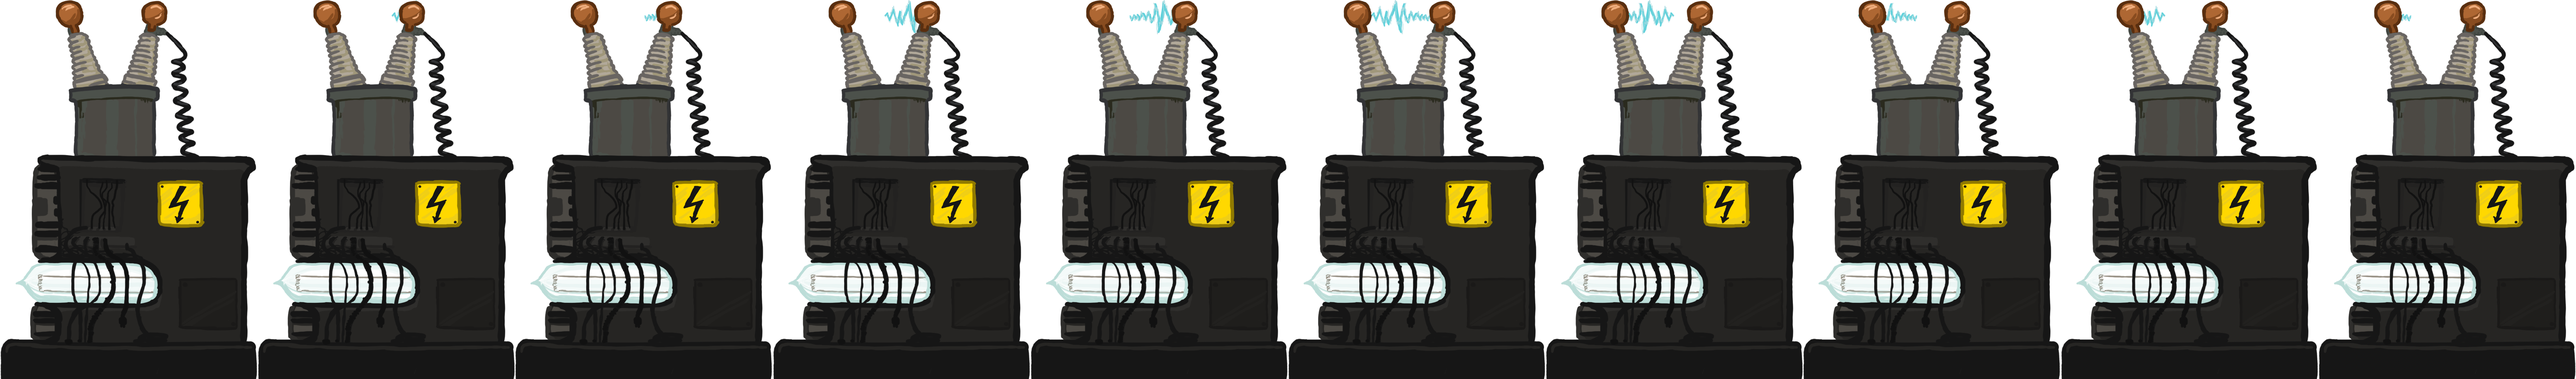
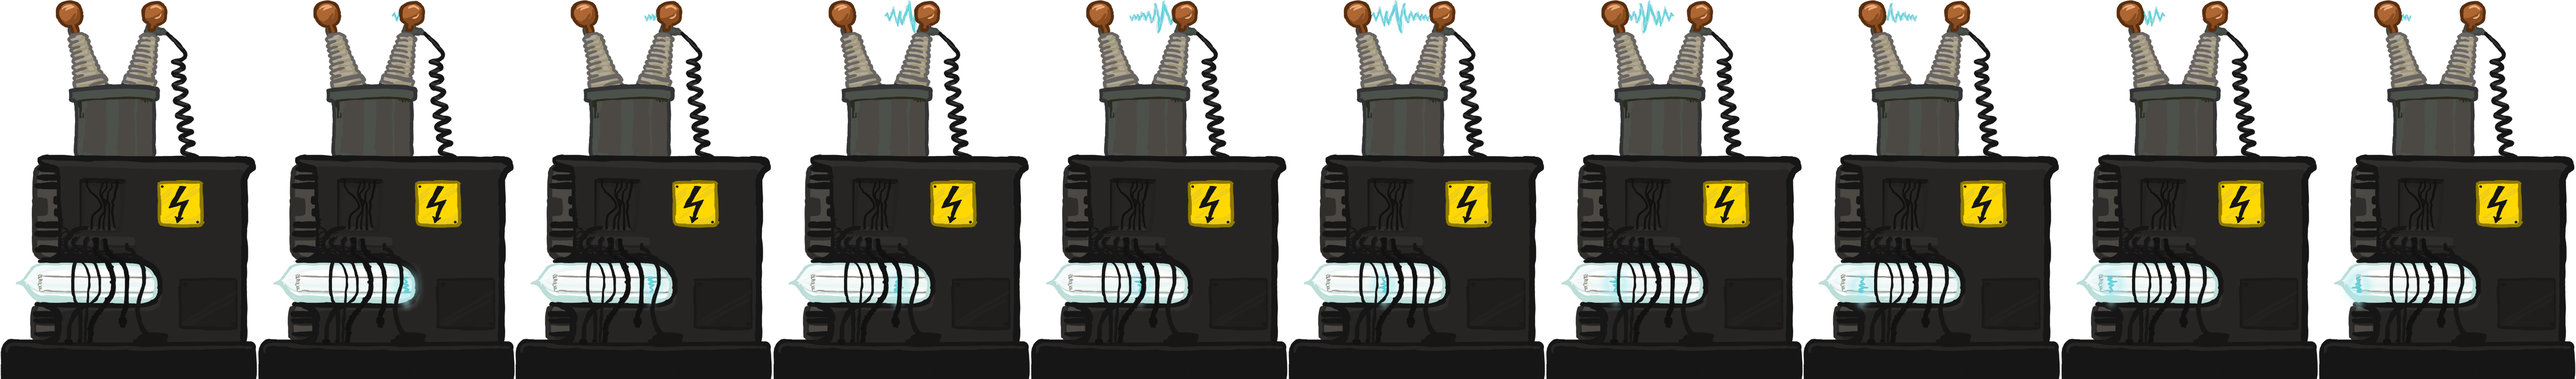
fleisch
pig sprites nur images im ordner

diff --git a/src/Game/Game.java b/src/Game/Game.java
@@ -126,13 +126,11 @@ public class Game extends BasicGame {
 		player = new Player(world, 5f, 3f);
 //		player = new Player(world, 25f, 0f);
 		world.setContactListener(new MyContactListener(this));
+		
 		for (int i = 0; i < 10; ++i) {
-			enemies.add( new EnemyPrimitive(this, 10*i +10f, 5f, 0.5f, 0.5f, 3.3f, 0.3f, 0.3f, null, BodyType.DYNAMIC) );
+			enemies.add( new EnemyPrimitive		(this, 1*i +10f, 5f, 0.5f, 0.5f, 3.3f, 0.3f, 0.3f, null, BodyType.DYNAMIC) );
+			enemies.add( new EnemyStupidFollower(this, 1f*i, 5f, 0.5f, 0.5f, 3.3f, 0.3f, 0.3f, null, BodyType.DYNAMIC));
 		}
-		enemies.add(new EnemyStupidFollower(this,  10f, 5f, 0.5f, 0.5f, 3.3f, 0.3f, 0.3f, null, BodyType.DYNAMIC));
-		enemies.add(new EnemyStupidFollower(this,  15f, 5f, 0.5f, 0.5f, 3.3f, 0.3f, 0.3f, null, BodyType.DYNAMIC));
-		enemies.add(new EnemyStupidFollower(this, 124f, 5f, 0.5f, 0.5f, 3.3f, 0.3f, 0.3f, null, BodyType.DYNAMIC));
-		enemies.add(new EnemyPrimitive     (this,  14f, 5f, 0.5f, 0.5f, 3.3f, 0.3f, 0.3f, null, BodyType.DYNAMIC));
 
 	}
 
@@ -169,10 +167,41 @@ public class Game extends BasicGame {
 		objectsToRemove.clear();
 		
 		for (Enemy e :  enemiesToRemove){
-			for(int i=0; i<15; ++i){
-				getNuts().add(new Nut(this, getWorld(), e.getBody().getPosition().add(new Vec2(0,0)), "images/nut"+ ((int) (Math.random()*3)+1)+".png" ));
-				getBolts().add(new Bolt(this, getWorld(), e.getBody().getPosition().add(new Vec2(0,0)), "images/bolt"+ ((int) (Math.random()*3)+1)+".png" ));
-				getShreds().add(new Shred(this, getWorld(), e.getBody().getPosition().add(new Vec2(0,0)), "images/shred"+ ((int) (Math.random()*3)+1)+".png" ));
+
+			float limit = 0.6f; 
+			double choice = Math.random();
+			
+			boolean good = false;
+			
+			if (choice < limit){
+				good = true;
+			}
+			
+			for(int i=0; i<7; ++i){
+				
+				float power = 10f;
+				Vec2 direction = new Vec2( 
+						(float)(Math.random()*power*2-power),
+						-((float)(Math.random()*power)) );
+				
+				if (good){
+				
+					Nut nut = new Nut(this, getWorld(), e.getBody().getPosition().add(new Vec2(0,0)), "images/nut"+ ((int) (Math.random()*3)+1)+".png" );
+					nut.getBody().setLinearVelocity( direction);
+					getNuts().add(nut);
+					
+					Bolt bolt = new Bolt(this, getWorld(), e.getBody().getPosition().add(new Vec2(0,0)), "images/bolt"+ ((int) (Math.random()*3)+1)+".png" );
+					bolt.getBody().setLinearVelocity( direction);
+					getBolts().add(bolt);
+					
+				} else {
+					
+					Shred shred = new Shred(this, getWorld(), e.getBody().getPosition().add(new Vec2(0,0)), "images/shred"+ ((int) (Math.random()*3)+1)+".png" );
+					shred.getBody().setLinearVelocity(direction);
+					getShreds().add(shred);
+					
+				}
+				
 			}
 			enemies.remove(e);
 		}		

diff --git a/src/Game/DropItem.java b/src/Game/DropItem.java
@@ -6,7 +6,7 @@ import org.jbox2d.dynamics.World;
 import org.newdawn.slick.Image;
 import org.newdawn.slick.SlickException;
 
-public class Bolt extends GameObjectPolygon {
+public class DropItem extends GameObjectPolygon {
 	
 	private static final float 	FACTOR = 0.2f;
 	private static final int	MIN_TIME = 15;
@@ -25,7 +25,7 @@ public class Bolt extends GameObjectPolygon {
 		new Vec2(-0.47851562f 	* FACTOR, 	 0.0078125f 	* FACTOR)
 	};
 		
-	public Bolt(Game game, World world, Vec2 pos, String imgPath)
+	public DropItem(Game game, World world, Vec2 pos, String imgPath)
 			throws SlickException {
 		
 		super(world, pos.x, pos.y, verts, 1f, 0.5f, 0f, imgPath, BodyType.DYNAMIC);
@@ -48,7 +48,6 @@ public class Bolt extends GameObjectPolygon {
 	}
 	
 	public void collect(){
-		System.out.println("bolt collected");
 	}
 	
 	public boolean isCollectable() {

diff --git a/src/Game/Shred.java b/src/Game/Shred.java
@@ -8,7 +8,7 @@ import org.newdawn.slick.SlickException;
 
 public class Shred extends GameObjectPolygon {
 	
-	private static final float 	FACTOR = 0.4f;
+	private static final float 	FACTOR = 0.2f;
 	private static final int	MIN_TIME = 50;
 	
 	private Game game;
@@ -43,7 +43,9 @@ public class Shred extends GameObjectPolygon {
 		image.draw(this.getBody().getPosition().x - radius, this.getBody().getPosition().y -radius, radius*2f, radius*2f);
 		
 		if(++counter == MIN_TIME){
-			collectable = true;
+			game.getObjectsToRemove().add(this);
+			// FIXME
+//			game.getShreds().remove(this);
 		}
 	}
 	

diff --git a/src/Game/EnemyStupidFollower.java b/src/Game/EnemyStupidFollower.java
@@ -51,7 +51,7 @@ public class EnemyStupidFollower extends Enemy {
 	protected void initAnimations() throws SlickException {
 
 		SpriteSheet sheetWalk = new SpriteSheet("images/walkcycle.png", 	600, 575);
-		SpriteSheet sheetIdle = new SpriteSheet("images/walkcycle.png", 	600, 575);
+		SpriteSheet sheetIdle = new SpriteSheet("images/smartpigIdle.png", 	600, 575);
 		SpriteSheet sheetDie  = new SpriteSheet("images/walkcycle.png", 	600, 575);
 		
 		Animation animationWalk = new Animation(sheetWalk, 80);

diff --git a/src/Game/Nut.java b/src/Game/Nut.java
@@ -9,7 +9,7 @@ import org.newdawn.slick.SlickException;
 public class Nut extends GameObjectPolygon {
 	
 	private static final float FACTOR = 0.15f;
-	private static final int	MIN_TIME = 50;
+	private static final int	MIN_TIME = 15;
 	
 	private Game game;
 	private Image image;

diff --git a/src/Game/Generator.java b/src/Game/Generator.java
@@ -35,6 +35,7 @@ public class Generator extends GameObjectBox {
 		}
 		
 		animation = new Animation(spriteSheet, 100);
+		animation.setPingPong(true);
 		animation.start();
 	}
 	
